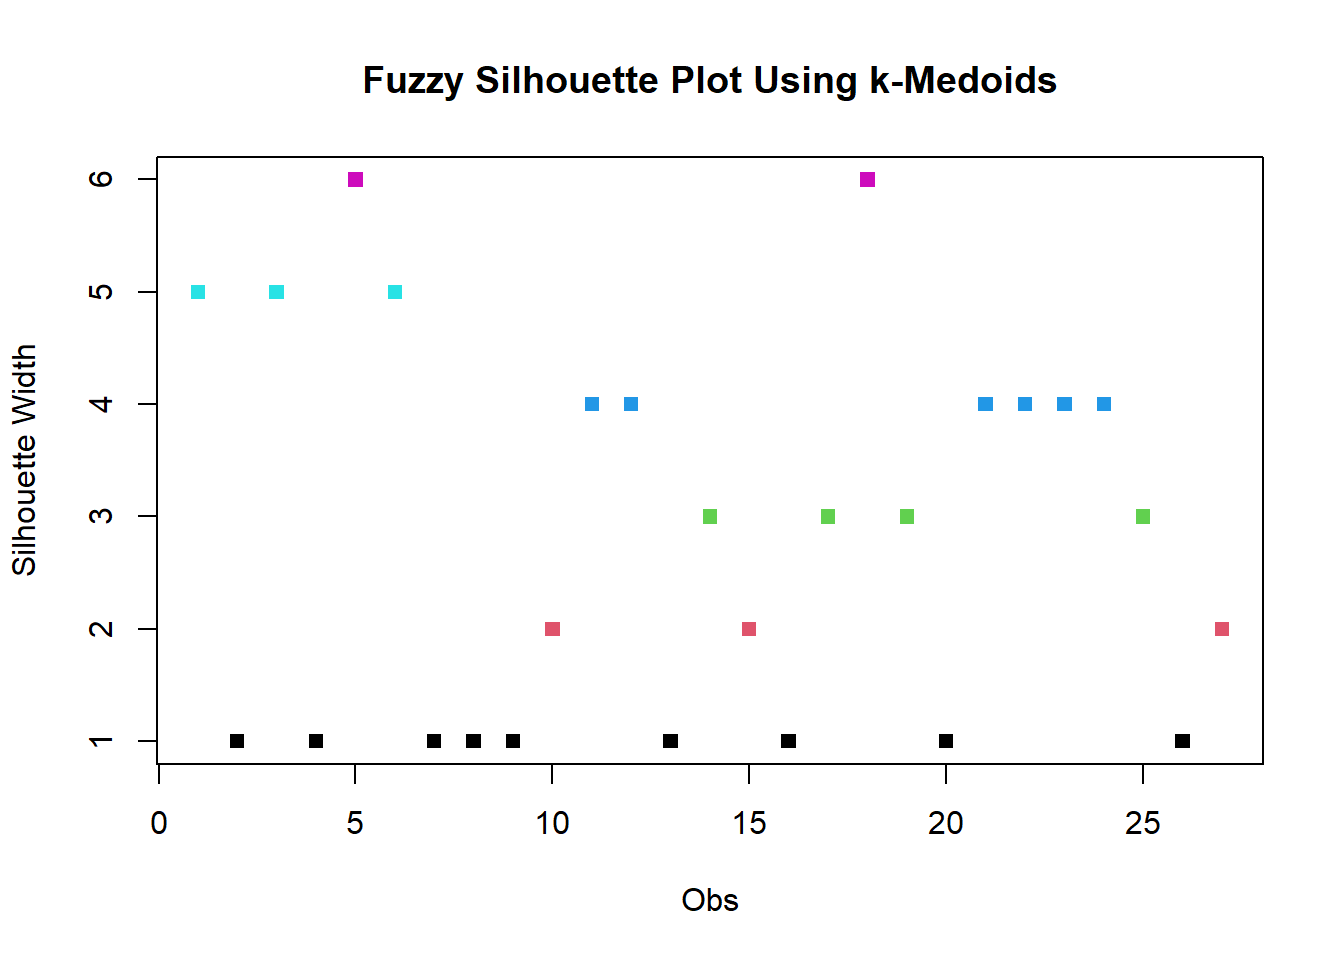
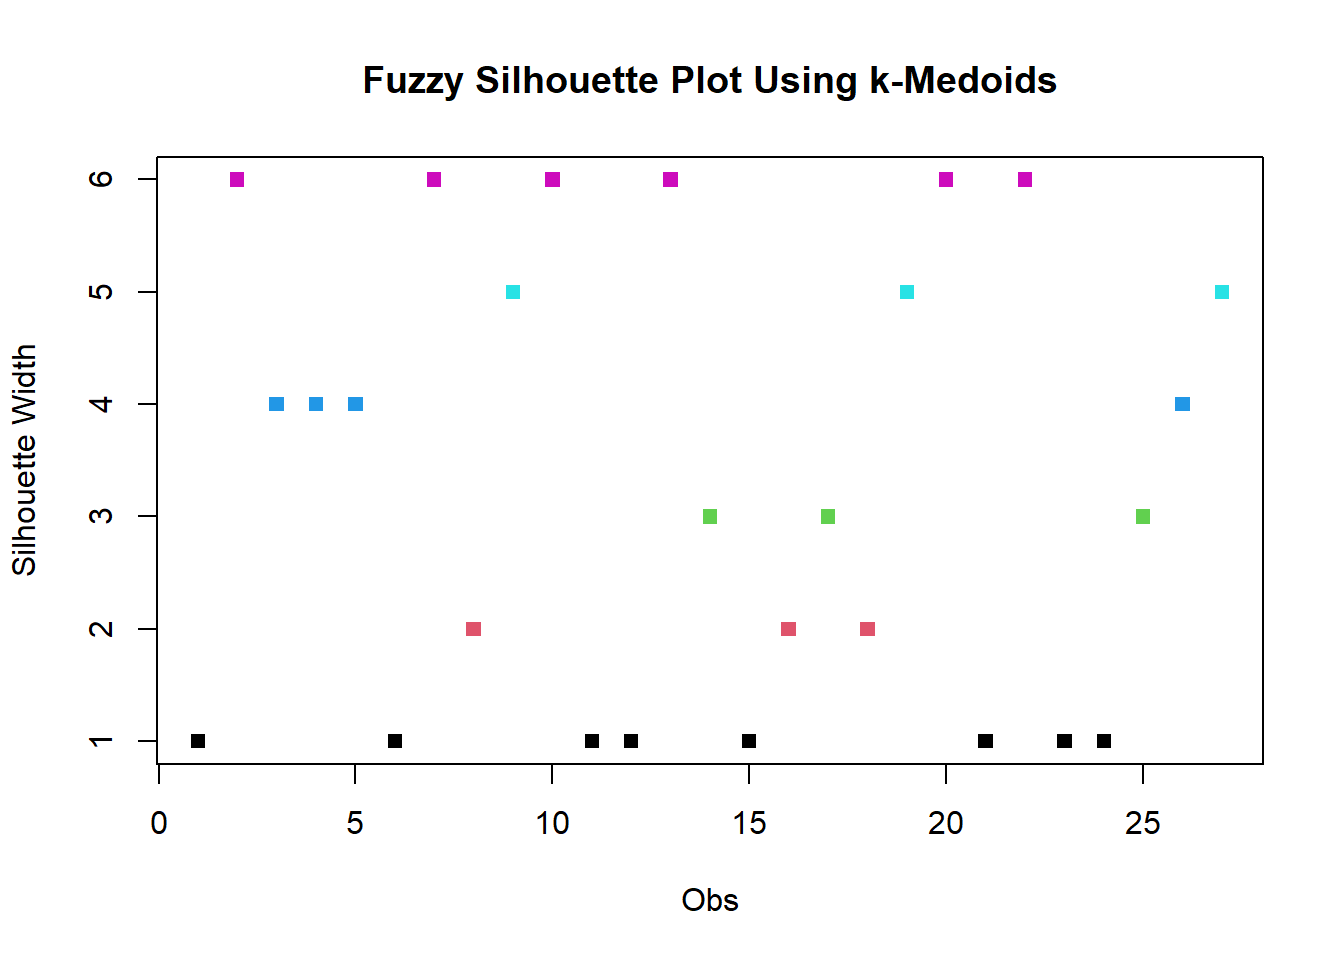
adding more comments

diff --git a/Text/Reports/Report.html b/Text/Reports/Report.html
@@ -1098,7 +1098,7 @@ ul.task-list li input[type="checkbox"] {
 <p>What was done to solve this problem?</p>
 <p>More destructive testing to determine trace elements.</p>
 <p>What implications does the answer imply?</p>
-<p>Our goal is to create and present a comprehensive, comprehensible, reproducible, and replicable multivariate analysis of the data obtained from the chemometric elemental analysis of 28 orichalcum ingots that were discovered in a 6th Century BC shipwreck off the coast Gela, Italy in 2017.</p>
+<p>Our goal is to create and present a comprehensive, comprehensible, reproducible, and replicable multivariate analysis of the data obtained from the chemometric elemental analysis of 38 orichalcum ingots that were discovered in a 6th Century BC shipwreck off the coast Gela, Italy in 2015.</p>
 <p><strong>1.4 Our hypothesis</strong></p>
 <p>Something cool and cleaver</p>
 </section>
@@ -1107,7 +1107,7 @@ ul.task-list li input[type="checkbox"] {
 <p><strong>2.1 Brief summary of lab techniques used to gather the the data</strong></p>
 <p>Data obtained for the table above containing the main component, trace element concentrations and Cu/Zn weight ratio was obtained by Inductively coupled plasma optical emission spectroscopy (ICP-OES) and Inductively coupled plasma mass spectrometry (ICP-MS) techniques (Caponetti et al). Collecting samples from 38 ancient ingots (they originally collected 40) to analysis the association between the ingots composition.</p>
 <p>This is the largest sample of its kind however it is still not a large sample.</p>
-<p>For the analysis of our report we will be considering all the main components and trace element concentrations exuding the Cu/Zn ratio as…</p>
+<p>For the analysis of our report we will be considering all the main components and trace element concentrations excluding the Cu/Zn ratio as…</p>
 <p><strong>2.2 Brief summary of the data</strong></p>
 <p>We started by performing a simple summary of the data in table 1 and creating a box plot to visualize the data. Something to highlight is that the main elements (Cu, Zn, Pb and Fe) are all in percentages, where as the concentrations of the trace elements are in PPM (parts per a million)</p>
 <div class="cell">
@@ -2099,7 +2099,7 @@ ul.task-list li input[type="checkbox"] {
 </table>
 </div>
 </div>
-<p>Notice from this table we can see some massive deviations, as expected. Now use the robust Z score to identify outliers that are candidates for removal. leys et al.&nbsp;(2013) argue the MAD is the most robust scale measure under contamination and recommend a median plus or minus 2.5 time MAD rule for outlier detection.</p>
+<p>Notice from this table we can see some massive deviations, as expected. Now use the robust Z score to identify outliers that are candidates for removal. leys et al.&nbsp;(2013) argue the MAD is the most robust scale measure under contamination and recommend a median plus or minus 2.5 time MAD rule for outlier detection. .</p>
 <div class="cell">
 <div class="cell-output-display">
 <div>
@@ -2129,6 +2129,8 @@ ul.task-list li input[type="checkbox"] {
 </div>
 </div>
 <p>The QQ plot shows very skewed data which we would expected…</p>
+<p>What is after we have “cleaned” up the outliers our |z| &gt; 3 rule removes samples 13, 25, and 38 which is exactly the sample ingots that Caponetti et al.&nbsp;set aside as their G4 group.</p>
+<p>{should probably explain why cutting out 11 samples will be good for the rest of our analysis, something along the line of outliers, terrible samples and low sample quality}</p>
 <p><strong><em>2.3.1 pairwise between CU, Zn, Pb, and Sn using the clean data</em></strong></p>
 <div class="cell">
 <div class="cell-output-display">
@@ -2159,7 +2161,7 @@ ul.task-list li input[type="checkbox"] {
 1 Henze-Zirkler         1   0.046 asymptotic ✗ Not normal</code></pre>
 </div>
 </div>
-<p>Due to our Henze Zirkler test for both the un-transfromed data (p-value &lt;0.001) and the transformed data (p-value 0.046) we can safety reject the null hypotheses and conclude that the data regardless if it is transformed or not does not follow a muiltivariate normal distribution.</p>
+<p>Due to our Henze Zirkler test for both the un-transformed data (p-value &lt;0.001) and the transformed data (p-value 0.046) we can safety reject the null hypotheses and conclude that the data regardless if it is transformed or not does not follow a multivariate normal distribution.</p>
 <p>As our data isn’t multivariate it isn’t appropriate to perform a mahalanobis distance.</p>
 <p><strong>2.5 Correlation plots before and after the transformation</strong></p>
 <div class="cell">
@@ -2179,7 +2181,7 @@ ul.task-list li input[type="checkbox"] {
 </div>
 </div>
 <p>Seeing a lot more correlation in the data with the massive outliers removed. worth keeping and commenting on? Correlation plot some things to highlight; is that the strong positive association between V and Cr for the un-transformed data is also strongly positively association in the transformed data. The transformed data also clearly shows a strong positive association for Bi and Ag which the un-transformed data doesn’t show as significantly. the negative association between Zn and Te becomes more stronger in the transformed data.</p>
-<p>the transformation didn’t just strength some of the associations it also happened to reverse the sign for several of the relationships, Bi and Mn was one the raw data had a positive association but the transformed data turned it into a negative association similar with the relation ships between Sb and Sn as well as Rb and Te. It went the other direction (negative to positive) for As and Co.&nbsp;This is a positive sign that the robustness of the transformation, i.e removing some of the outliers demonstrates their influence on the raw data.</p>
+<p>The transformation didn’t just strength some of the associations it also happened to reverse the sign for several of the relationships, Bi and Mn was one the raw data had a positive association but the transformed data turned it into a negative association similar with the relation ships between Sb and Sn as well as Rb and Te. It went the other direction (negative to positive) for As and Co.&nbsp;This is a positive sign that the robustness of the transformation, i.e removing some of the outliers demonstrates their influence on the raw data.</p>
 </section>
 <section id="lda-and-cluster-analysis" class="level2">
 <h2 class="anchored" data-anchor-id="lda-and-cluster-analysis">3. LDA and Cluster analysis</h2>
